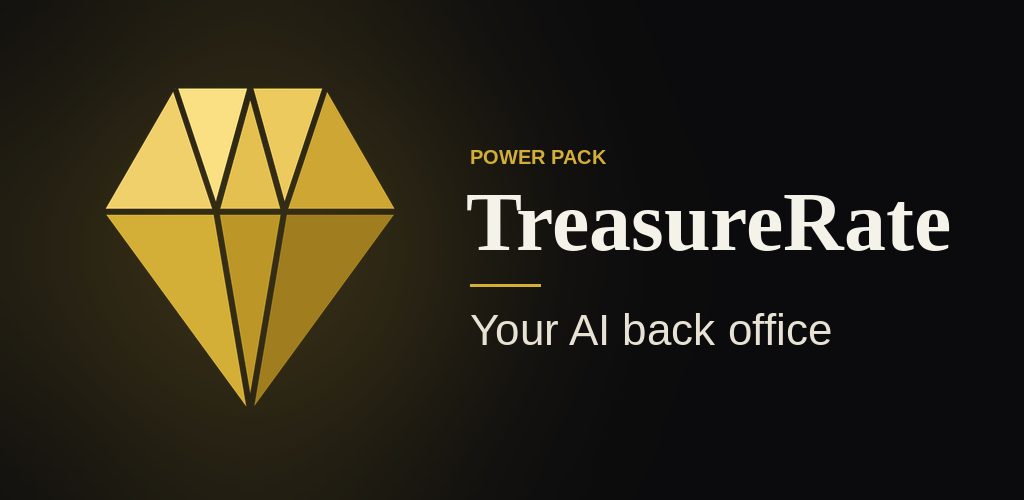
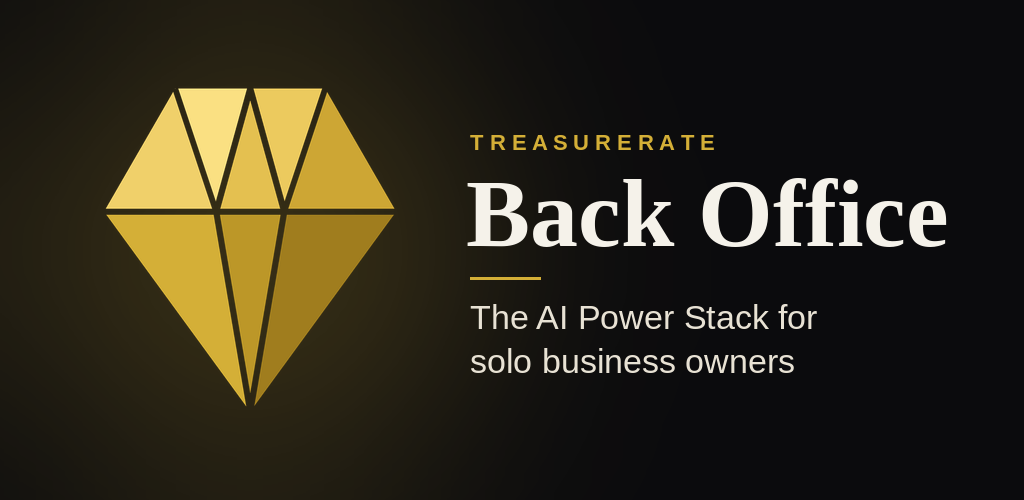
Rename to TreasureRate Back Office, agents become the Power Stack
- Home-screen label: Back Office
- Agents tab header: Power Stack
- Feature graphic: TREASURERATE / Back Office / The AI Power Stack for solo business owners

Claude-Session: https://claude.ai/code/session_01TDKDJVo5VksavVkXUSxXuu

Changed region(s): [[0.4375, 0.36, 0.9375, 0.51], [0.4375, 0.54, 0.8125, 0.75], [0.4375, 0.27, 0.7188, 0.33]]

diff --git a/src/app/(tabs)/profile.tsx b/src/app/(tabs)/profile.tsx
@@ -79,7 +79,7 @@ export default function ProfileScreen() {
           </View>
           <Button label="Delete all my data" icon="trash-outline" variant="secondary" onPress={onClear} />
         </View>
-        <Text style={st.version}>TreasureRate {Constants.expoConfig?.version ?? ''}</Text>
+        <Text style={st.version}>TreasureRate Back Office {Constants.expoConfig?.version ?? ''}</Text>
       </ScrollView>
     </KeyboardAvoidingView>
   );

diff --git a/src/app/(tabs)/_layout.tsx b/src/app/(tabs)/_layout.tsx
@@ -18,7 +18,7 @@ export default function TabLayout() {
       <Tabs.Screen
         name="index"
         options={{
-          title: 'Power Pack',
+          title: 'Power Stack',
           tabBarLabel: 'Agents',
           tabBarIcon: ({ color, size }) => <Ionicons name="flash-outline" size={size} color={color} />,
         }}

diff --git a/scripts/generate-brand-assets.py b/scripts/generate-brand-assets.py
@@ -70,15 +70,15 @@ FW, FH = 1024, 500
 fg = background((FW, FH), 250, 250, 240, strength=55)
 fg.alpha_composite(gem_layer((FW, FH), 250, 250, 0.5))
 d = ImageDraw.Draw(fg)
-title = ImageFont.truetype("/usr/share/fonts/truetype/liberation/LiberationSerif-Bold.ttf", 84)
-sub = ImageFont.truetype("/usr/share/fonts/truetype/liberation/LiberationSans-Regular.ttf", 32)
-tag = ImageFont.truetype("/usr/share/fonts/truetype/liberation/LiberationSans-Bold.ttf", 20)
+F = "/usr/share/fonts/truetype/liberation/"
+title = ImageFont.truetype(F + "LiberationSerif-Bold.ttf", 96)
+sub = ImageFont.truetype(F + "LiberationSans-Regular.ttf", 34)
+tag = ImageFont.truetype(F + "LiberationSans-Bold.ttf", 22)
 x = 470
-lines = ["Your AI back office"]
-sub = ImageFont.truetype("/usr/share/fonts/truetype/liberation/LiberationSans-Regular.ttf", 44)
-d.text((x, 145), "POWER PACK", font=tag, fill=GOLD)
-d.text((x - 4, 175), "TreasureRate", font=title, fill=(245, 242, 234))
-d.line([(x, 285), (x + 70, 285)], fill=GOLD, width=3)
+lines = ["The AI Power Stack for", "solo business owners"]
+d.text((x, 130), "T R E A S U R E R A T E", font=tag, fill=GOLD)
+d.text((x - 4, 160), "Back Office", font=title, fill=(245, 242, 234))
+d.line([(x, 278), (x + 70, 278)], fill=GOLD, width=3)
 for i, line in enumerate(lines):
-    d.text((x, 305 + i * 52), line, font=sub, fill=(232, 226, 212))
+    d.text((x, 298 + i * 44), line, font=sub, fill=(232, 226, 212))
 fg.convert("RGB").save(R + "store/play-feature-graphic-1024x500.png", optimize=True)

diff --git a/README.md b/README.md
@@ -1,6 +1,8 @@
-# TreasureRate Power Pack (Android)
+# TreasureRate Back Office (Android)
 
-Ten AI agents for solo business owners, freelancers and side hustlers, built on the TreasureRate agent backend.
+The AI Power Stack: ten AI agents for solo business owners, freelancers and side hustlers, built on the TreasureRate agent backend.
+
+Play Store title: "TreasureRate Back Office". Home-screen label: "Back Office" (set in `app.json`).
 
 - Expo SDK 57, Expo Router
 - No sign-in in v1: business profile and run history are stored on the device only
